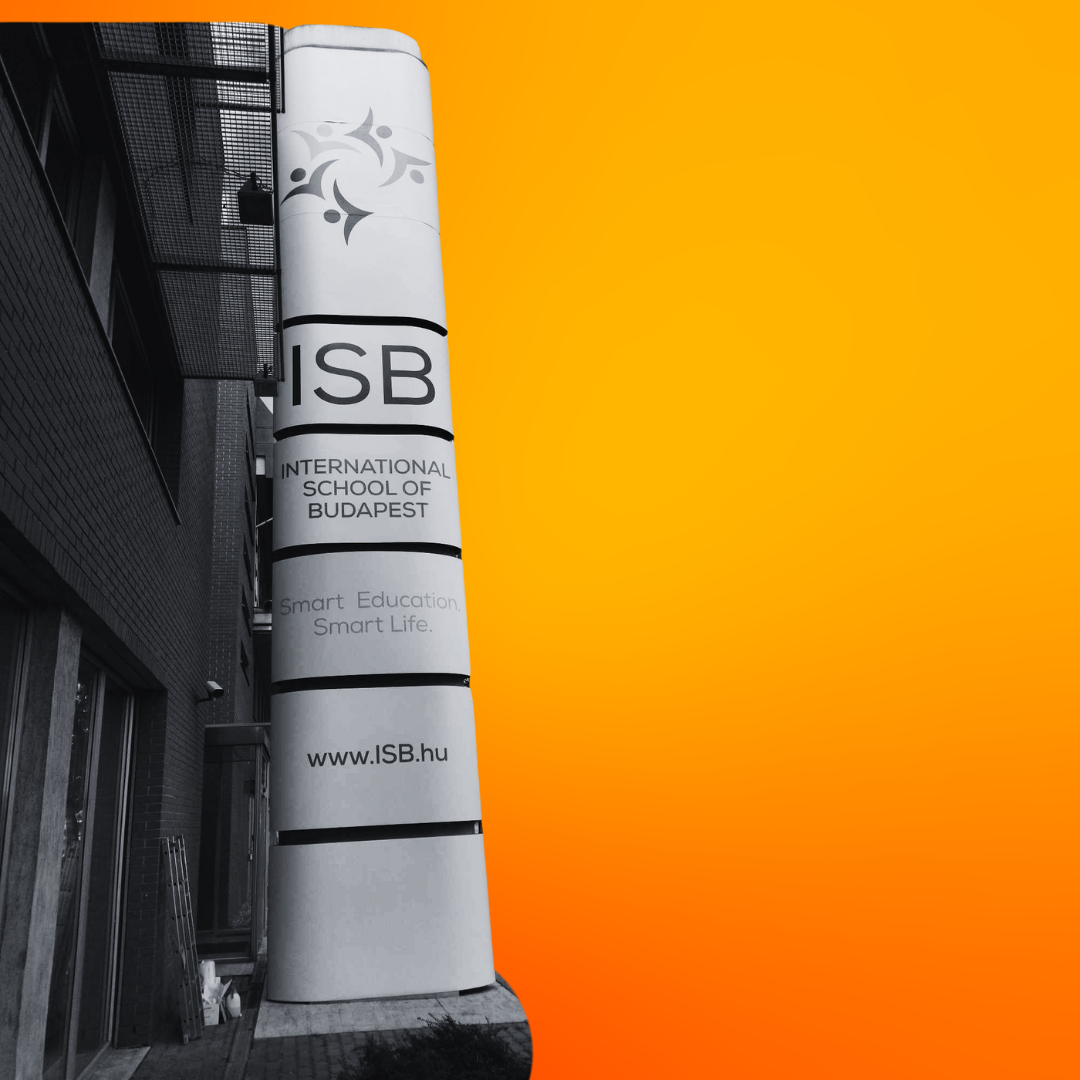
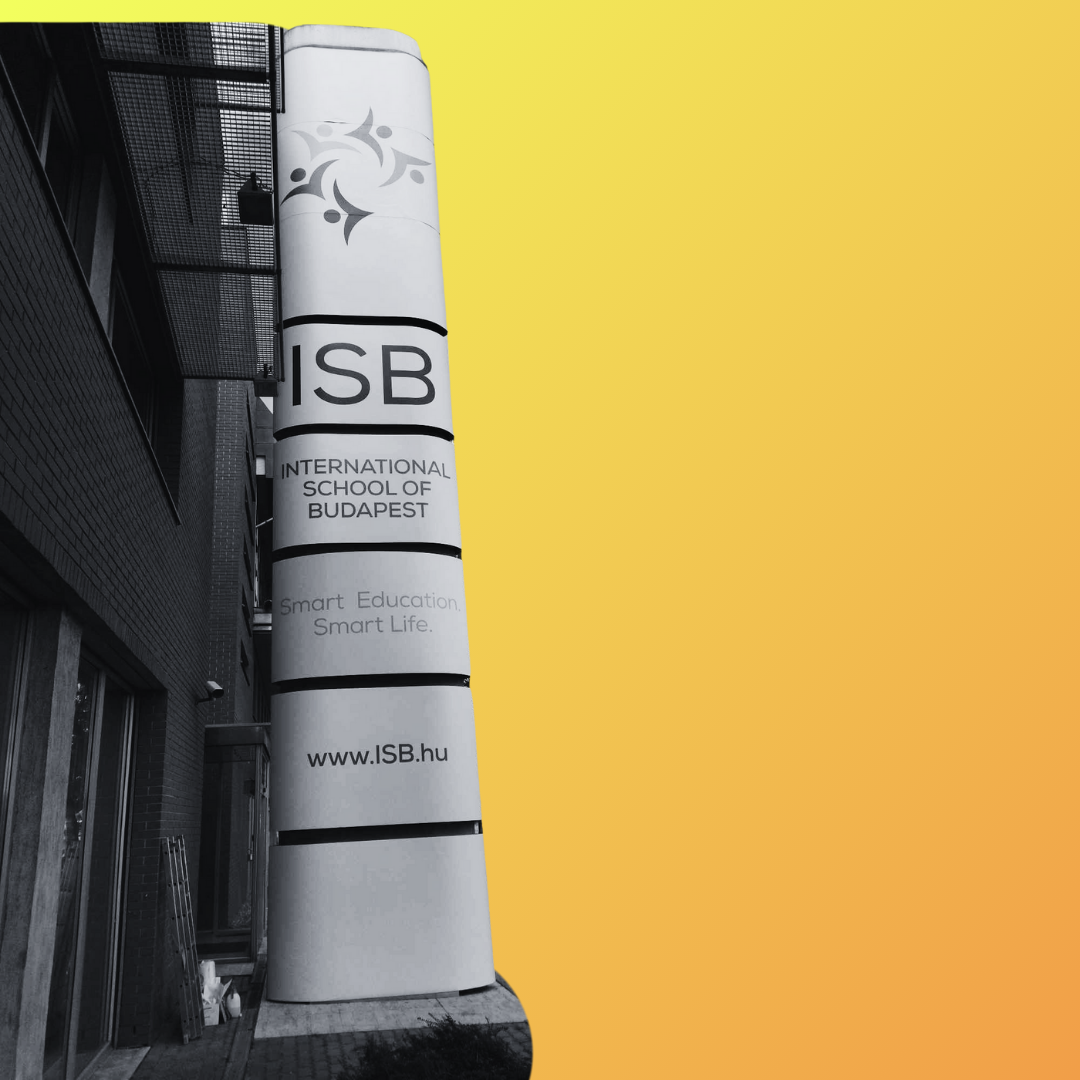
updated styles and added about page

diff --git a/src/pages/Rolunk.tsx b/src/pages/Rolunk.tsx
@@ -1,0 +1,98 @@
+import { useEffect } from "react";
+
+import { motion, useScroll, useSpring } from "framer-motion";
+import Contact from "@/components/Contact";
+import pult from "../assets/DSCF3446.jpg";
+import pult2 from "../assets/DSCF3447.jpg";
+import car from "../assets/DSCF3547.jpg";
+import car2 from "../assets/DSCF3634.jpg";
+
+const Rolunk = () => {
+  const { scrollYProgress } = useScroll();
+  const scaleX = useSpring(scrollYProgress, {
+    stiffness: 100,
+    damping: 30,
+    restDelta: 0.001,
+  });
+
+  useEffect(() => {
+    document.title = "Digital Printing Services | Premium Quality Prints";
+  }, []);
+
+  return (
+    <div className="">
+      <section className="h-40 md:h-96 flex items-center justify-start relative overflow-hidden px-4 py-24 bg-accent">
+        <div className="max-w-7xl mx-auto w-full">
+          <motion.div
+            initial={{ opacity: 0, y: 20 }}
+            animate={{ opacity: 1, y: 0 }}
+            transition={{ duration: 0.5 }}
+            className="px-8"
+          >
+            <h3 className="text-white text-3xl font-serif">CSOPORT KEP?</h3>
+          </motion.div>
+        </div>
+      </section>
+      <div className="flex flex-col md:flex-row">
+        <section className="flex md:inline-flex flex-col max-w-2xl  px-8">
+          <h2 className="text-lg md:text-xl text-left text-gray-700 max-w-2xl my-8 font-serif">
+            Digitális nyomdaipari megoldások, amik többet nyújtanak a nyomtatásnál
+          </h2>
+          <p className="flex text-lg text-gray-600 pb-4">
+            A szenvedélyünk az Ön üzenetének életre keltése. Tudjuk, hogy minden projekt mögött egy történet áll, és mi segítünk ezt a történetet látványosan elmesélni. Amikor velünk dolgozik, nem csupán egy szolgáltatót kap – olyan partnerre talál, aki érti és átérzi vállalkozása céljait.
+          </p>
+          <p className="flex text-lg text-gray-600 pb-4">
+            Minden egyes munkánk során arra törekszünk, hogy az Ön víziója a lehető leghatásosabban jelenjen meg. Legyen szó akár egy figyelemfelkeltő molinóról az üzlete előtt, vagy egy teljes épület arculatának megtervezéséről, mi ugyanazzal a gondossággal és odafigyeléssel kezeljük projektjét.
+          </p>
+
+          <h2 className="text-lg md:text-xl text-left text-gray-700 max-w-2xl mb-8 mt-4 font-serif">
+            A mi világunk a <span className="italic">vizuális kommunikáció</span>
+          </h2>
+          <p className="flex text-lg text-gray-600 pb-4">
+            Plakátjaink nem egyszerűen papírra nyomtatott üzenetek – olyan kommunikációs eszközök, amelyek megállítják és megragadják az embereket. Amikor kültéri vagy beltéri plakátot készítünk, mindig szem előtt tartjuk, hogy annak nem csak látványosnak, de célravezetőnek is kell lennie.
+          </p>
+          <p className="flex text-lg text-gray-600 pb-4">
+            Matricáink és fóliáink nem ismernek határokat. Legyen szó akár egy kirakat teljes beborításáról vagy egy apró logó elhelyezéséről, mindig a legmagasabb minőségben dolgozunk. UV-nyomtatási technológiánknak köszönhetően pedig szinte bármilyen felületre tudunk tartós és ellenálló grafikát készíteni.
+          </p>
+          <p className="flex text-lg text-gray-600 pb-4">
+            Az autógrafikáink nem csupán dekorációk – mozgó reklámfelületek, amelyek város- és országszerte viszik az Ön üzenetét. Minden járműmatricánkat úgy tervezzük, hogy az ne csak figyelemfelkeltő legyen, hanem tökéletesen illeszkedjen az Ön márkájához is.
+          </p>
+          <h2 className="text-lg md:text-xl text-left text-gray-700 max-w-2xl mb-8 mt-4 font-serif">
+            Értékteremtés minden részletben
+          </h2>
+          <p className="flex text-lg text-gray-600 pb-4">
+            Roll Up-jaink és mobil display megoldásaink ideális társak kiállításokon és rendezvényeken. Könnyen szállíthatóak és pillanatok alatt felállíthatóak, mégis professzionális megjelenést biztosítanak bárhol, ahol Ön megjelenik.
+          </p>
+          <p className="flex text-lg text-gray-600 pb-4">
+            Épületfeliratozási szolgáltatásunk során nem csak a technikai kivitelezésre figyelünk – megértjük az épület karakterét és az Ön márkáját, hogy olyan megoldást készítsünk, ami mindkettőt tökéletesen képviseli. Plasztikus betűinkkel pedig olyan háromdimenziós hatást érhetünk el, ami garantáltan megragadja a tekintetet.
+          </p>
+          <p className="flex text-lg text-gray-600 pb-4">
+            A jelöléstechnika területén is professzionális megoldásokat kínálunk. Értjük, hogy az ipari környezetben a pontosság és a tartósság ugyanolyan fontos, mint az esztétikum, ezért minden projektünknél ezeket az szempontokat együttesen vesszük figyelembe.
+          </p>
+          <h2 className="text-lg md:text-xl text-left text-gray-700 max-w-2xl mb-8 mt-4 font-serif">
+            A legkisebb is számít
+          </h2>
+          <p className="flex text-lg text-gray-600 pb-4">
+            Névjegykártyáink és brossúráink esetében is a tökéletességre törekszünk. Tudjuk, hogy ezek a kis nyomtatott darabok gyakran az első fizikai kapcsolatot jelentik az Ön márkájával, ezért különös gondossággal kezeljük őket. Célunk, hogy minden névjegykártya és szórólap, amit a kezébe vesz, tükrözze az Ön professzionalizmusát.
+          </p>
+          <h2 className="text-lg md:text-xl text-left text-gray-700 max-w-2xl mb-8 mt-4 font-serif font-bold">
+            Miért szeretnek velünk dolgozni partnereink?
+          </h2>
+          <p className="flex text-lg text-gray-600 pb-4">
+            Megbízhatóságunk nem ígéret, hanem gyakorlat. Minden projektet határidőre és az ígért költségkereten belül szállítunk. Rugalmasságunknak köszönhetően pedig akkor is találunk megoldást, ha váratlan kihívásokkal találkozunk.
+          </p>
+          <p className="flex text-lg text-gray-600 pb-4">
+            A minőség számunkra nem csak egy szó – ez az alapja minden munkánknak. Modern gépparkunk és szakértő csapatunk garantálja, hogy minden projekt a lehető legjobb minőségben készüljön el.
+          </p>
+          <p className="flex text-lg text-gray-600 pb-4 font-semibold mb-12">
+            Vegyen részt Ön is ebben a kreatív utazásban! Keressen minket bizalommal, és együtt megtaláljuk a tökéletes megoldást az Ön egyedi igényeire.
+          </p>
+        </section>
+      </div>
+
+      <Contact />
+    </div>
+  );
+};
+
+export default Rolunk;

diff --git a/src/components/Contact.tsx b/src/components/Contact.tsx
@@ -1,5 +1,7 @@
+import Index from "@/pages/Index";
 import { motion } from "framer-motion";
 import { Send } from "lucide-react";
+import { Link } from "react-router-dom";
 
 const Contact = () => {
   return (
@@ -21,43 +23,6 @@ const Contact = () => {
           </div>
         </motion.div>
         <div className="max-w-xl mx-auto">
-          {/* <motion.form
-            initial={{ opacity: 0, y: 20 }}
-            whileInView={{ opacity: 1, y: 0 }}
-            viewport={{ once: true }}
-            transition={{ duration: 0.5, delay: 0.2 }}
-            className="space-y-6"
-          >
-            <div>
-              <input
-                type="text"
-                placeholder="Your Name"
-                className="w-full px-4 py-3 rounded-lg bg-white/10 border border-white/20 text-white placeholder-gray-400 focus:outline-none focus:ring-2 focus:ring-accent"
-              />
-            </div>
-            <div>
-              <input
-                type="email"
-                placeholder="Email Address"
-                className="w-full px-4 py-3 rounded-lg bg-white/10 border border-white/20 text-white placeholder-gray-400 focus:outline-none focus:ring-2 focus:ring-accent"
-              />
-            </div>
-            <div>
-              <textarea
-                placeholder="Project Details"
-                rows={4}
-                className="w-full px-4 py-3 rounded-lg bg-white/10 border border-white/20 text-white placeholder-gray-400 focus:outline-none focus:ring-2 focus:ring-accent"
-              />
-            </div>
-            <motion.button
-              whileHover={{ scale: 1.05 }}
-              whileTap={{ scale: 0.95 }}
-              className="w-full bg-accent text-white px-6 py-3 rounded-lg font-medium flex items-center justify-center space-x-2 hover:bg-accent/90 transition-colors"
-            >
-              <span>Send Message</span>
-              <Send className="w-4 h-4" />
-            </motion.button>
-          </motion.form> */}
           <div className="grid grid-cols-1 md:grid-cols-3 gap-8 text-center md:text-left">
             <div>
               <h3 className="text-xl font-semibold mb-4 font-serif">Címünk</h3>
@@ -71,9 +36,9 @@ const Contact = () => {
             <div>
               <h3 className="text-xl font-semibold font-serif mb-4">Linkek</h3>
               <ul className="space-y-2">
-                <li><a href="#" className="text-gray-300 hover:text-white">Főoldal</a></li>
-                <li><a href="#" className="text-gray-300 hover:text-white">Rólunk</a></li>
-                <li><a href="#" className="text-gray-300 hover:text-white">Portfólió</a></li>
+                <li><Link to={'/'} className="text-gray-300 hover:text-white">Főoldal</Link></li>
+                <li><Link to={'/rolunk'} className="text-gray-300 hover:text-white">Rólunk</Link></li>
+                <li><Link to={'/projektek'} className="text-gray-300 hover:text-white">Portfólió</Link></li>
               </ul>
             </div>
             <div>

diff --git a/src/components/Hero.tsx b/src/components/Hero.tsx
@@ -1,6 +1,6 @@
 import { motion } from "framer-motion";
 import styles from './Hero.module.css';
-
+import logo from '../assets/Favicon.svg';
 const Hero = () => {
   return (
     <div className={styles.header}>
@@ -12,15 +12,15 @@ const Hero = () => {
             transition={{ duration: 0.5 }}
             className="text-center"
           >
-            <span className="text-accent text-xl inline-block px-4 py-1 rounded-full bg-accent/10  font-medium mb-6">
+            <img src={logo} alt="Vinyl Grafik Studio" className="w-24 h-auto mx-auto mb-6" />
+            <span className=" text-xl inline-block px-4 py-1 rounded-full bg-accent/10  font-medium mb-6">
               Vinyl Grafik Studio
             </span>
-            <h1 className="text-4xl md:text-6xl lg:text-7xl font-bold font-serif text-primary mb-6 leading-tight">
-              A sikerhez vezető nyomtatás. <br />
-              <br />
-              <span className="text-accent">Minden részlet számít.</span>
+            <h1 className="text-4xl md:text-6xl lg:text-7xl font-bold font-serif text-primary leading-tight mb-3">
+              A sikerhez vezető nyomtatás.
             </h1>
-            <p className="text-lg md:text-xl text-gray-600 max-w-2xl mx-auto mb-8">
+            <h2 className="text-4xl md:text-6xl lg:text-7xl italic font-serif mb-6"><span>Minden részlet számít.</span></h2>
+            <p className="text-lg md:text-xl text-gray-700 max-w-2xl mx-auto mb-8">
               Rugalmas, gyors és minőségi nyomtatási megoldások kisvállalkozások számára. Bízza ránk a reklámanyagainak elkészítését, és fókuszáljon a növekedésre.
             </p>
             <motion.a

diff --git a/src/App.tsx b/src/App.tsx
@@ -5,6 +5,7 @@ import { QueryClient, QueryClientProvider } from "@tanstack/react-query";
 import { BrowserRouter, Routes, Route } from "react-router-dom";
 import Index from "./pages/Index";
 import Nyirfacukor from "./pages/Nyirfacukor";
+import Rolunk from "./pages/Rolunk";
 
 const queryClient = new QueryClient();
 
@@ -17,7 +18,7 @@ const App = () => (
         <Routes>
           <Route path="/" element={<Index />} />
           <Route path="/projektek/nyirfacukor" element={<Nyirfacukor />} />
-          
+          <Route path="/rolunk" element={<Rolunk />} />
         </Routes>
       </BrowserRouter>
     </TooltipProvider>

diff --git a/src/components/Services.tsx b/src/components/Services.tsx
@@ -50,7 +50,7 @@ const Services = () => {
               <div className="absolute -top-4 left-1/2 transform -translate-x-1/2 w-8 h-8 bg-accent rounded-full flex items-center justify-center text-white font-bold">
                 {index + 1}
               </div>
-              <div className="text-accent mb-4 mt-2">{approach.icon}</div>
+              <div className="text-rose-400 mb-4 mt-2">{approach.icon}</div>
               <h3 className="text-xl font-semibold font-serif mb-2">{approach.title}</h3>
               <p className="text-gray-600">{approach.description}</p>
             </motion.div>

diff --git a/src/components/Hero.module.css b/src/components/Hero.module.css
@@ -1,5 +1,5 @@
 .header {
-  background-image: linear-gradient(rgba(255, 255, 255, 0.9),rgba(255, 255, 255, 0.85),rgba(255, 255, 255, 0.76), rgba(255, 255, 255, 0.2)), url("../assets/bg.png"); 
+  background-image: url('../assets/bg.png');
   background-size: cover;
   background-position: center;
 }

diff --git a/tailwind.config.ts b/tailwind.config.ts
@@ -37,7 +37,7 @@ export default {
           foreground: "#111111",
         },
         accent: {
-          DEFAULT: "#e66465",
+          DEFAULT: "rgb(102 241 205)",
           foreground: "#ffffff",
         },
         muted: {

diff --git a/vite.config.ts b/vite.config.ts
@@ -19,5 +19,5 @@ export default defineConfig(({ mode }) => ({
       "@": path.resolve(__dirname, "./src"),
     },
   },
-  base: "/printify-landing-portal/",
+  // base: "/printify-landing-portal/",
 }));
